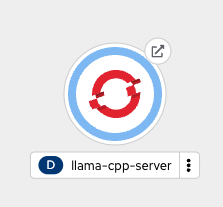
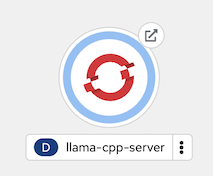
Updates

Changed region(s): [[0.2817, 0.142, 0.7606, 0.7102], [0.1127, 0.7386, 0.9014, 0.9091]]

diff --git a/README.md b/README.md
@@ -20,11 +20,11 @@ We'll be using the IBM Montpellier RADAR environment which is an dedicated OpenS
 
 You'll be provided with a workstation that has access to the RADAR environment by using OpenVPN.
 
-Click on the OpenVPN icon and then `connect` by using the provided credentials.
+Once you enter the VM rightclick on the OpenVPN icon in the taskbar and then choose `connect` to enter the provided credentials.
 
-[image]
+![image](images/0-vpn.png) ![image](images/0-connect.png) 
 
-Once you're connected you can find a quicklink icon on the desktop that opens the OpenShift webconsole where you have to login using htpasswd using the provided credentials.
+Once you're connected you can find a quicklink icon on the desktop that opens the OpenShift webconsole where you have to login using **htpasswd** using the provided credentials.
 
 [image]
 
@@ -207,8 +207,13 @@ Click Create!
 
 If we now go to the developer view and watch the Topology we can see the llama-cpp server represented as a circle with a dark blue ring if everything deployed correctly:
 
-[image]
+Light blue ring: (not yet ready)
 
+![image](images/1.5-lightblue.png) 
+
+Dark blue ring: (ready)
+
+![image](images/1.5-darkblue.png)
 
 
 ### 1.5 Access your model
@@ -217,23 +222,28 @@ We can access the model by clicking on the little Arrow button in the upper righ
 
 This should open a new browser where you can experiment with the deployed Large Language Model!
 
-First don't change any of the parameters and just scroll down to to input field "Say something..." where you can interact with the LLM.
+First don't change any of the parameters and just **scroll down to to input field "Say something..."** where you can interact with the LLM.
 
-[image]
+![image](images/1.5-llama.png)
 
 You can ask any question you like, but keep in mind we're using a small model and there are more powerful models out there.
 
-### Option B: Using CLI
+Feel free to experiment with the model parameters like temperature and predictions.
 
-**IF YOU DEPLOYED THE MODEL SERVER USING OPTION A YOU CAN SKIP THIS PART AND DIRECTLY GO TO Part 2!**
+In the second part we'll see that smaller, resource-efficient models like this can answer questions based on a given context and instructions quite well!
 
-There is also a short version to do all of this in just a few steps using the CLI:
-
-You will need your OpenShift login token which you can get after logging in to the WebUI, click on your username -> Copy login command -> Login again with your credentials -> Display token
+### _Option B: Using CLI_
 
 
-Open the terminal and login to your cluster using the token
-`oc login --token=<YOUR TOKEN> --server=https://api.cadiz.edu.ihost.com:6443`
+**_IF YOU DEPLOYED THE MODEL SERVER USING OPTION A YOU CAN SKIP THIS PART AND DIRECTLY GO TO Part 2!_**
+
+_There is also a short version to do all of this in just a few steps using the CLI:_
+
+_You will need your OpenShift login token which you can get after logging in to the WebUI, click on your username -> Copy login command -> Login again with your credentials -> Display token_
+
+
+_Open the terminal and login to your cluster using the token
+`oc login --token=<YOUR TOKEN> --server=https://api.cadiz.edu.ihost.com:6443`_
 
 ```bash
 # Get the lab repository
@@ -251,13 +261,13 @@ oc get pods -w
 oc get routes llama-service -o jsonpath='{.spec.host}'
 ```
 
-Get the URL and open in the browser.
+_Get the URL and open in the browser._
 
-You can ask any question you like, but keep in mind we're using a small model (although contradicotry to the term "Large Language Model") and there are more powerful models out there.
+_You can ask any question you like, but keep in mind we're using a small model (although contradicotry to the term "Large Language Model") and there are more powerful models out there._
 
 ## Part 2: Enhance with RAG using Milvus & LangChain
 
-In the second part we will create a vector database (Milvus) that we'll be using for indexing data.
+In the second part we will create a vector database (Milvus) that we'll be using for indexing a sample PDF file.
 
 ### 2.1 Deploy Milvus
 
@@ -266,10 +276,11 @@ You can stay in the same OpenShift project.
 You will need your OpenShift login token which you can get after logging in to the WebUI, click on your username -> Copy login command -> Login again with your credentials -> Display token
 
 
-Open the terminal and login to your cluster using the token
+Open the terminal (command prompt or PowerShell) and login to your cluster using:
+
 `oc login --token=<YOUR TOKEN> --server=https://api.cadiz.edu.ihost.com:6443`
 
-If you haven't downloaded the git repository yet (which you've just done if you used the "short way" before) do it now:
+Clone the repository using Github Desktop or use the terminal:
 
 ```bash
 # Get the lab repository
@@ -312,7 +323,7 @@ Once the container is deployed you should be able to access it using the link fr
 
 `oc get route cpu-notebook -o jsonpath='{.spec.host}'`
 
-If you open the notebook server in your browser now drag & drop the notebook (`RAG.ipynb`) from this repo into the notebookserver.
+If you open the notebook server in your browser now drag & drop the notebook (`RAG.ipynb`) from this repo into the notebook server.
 
 Follow the steps inside the notebook!
 
